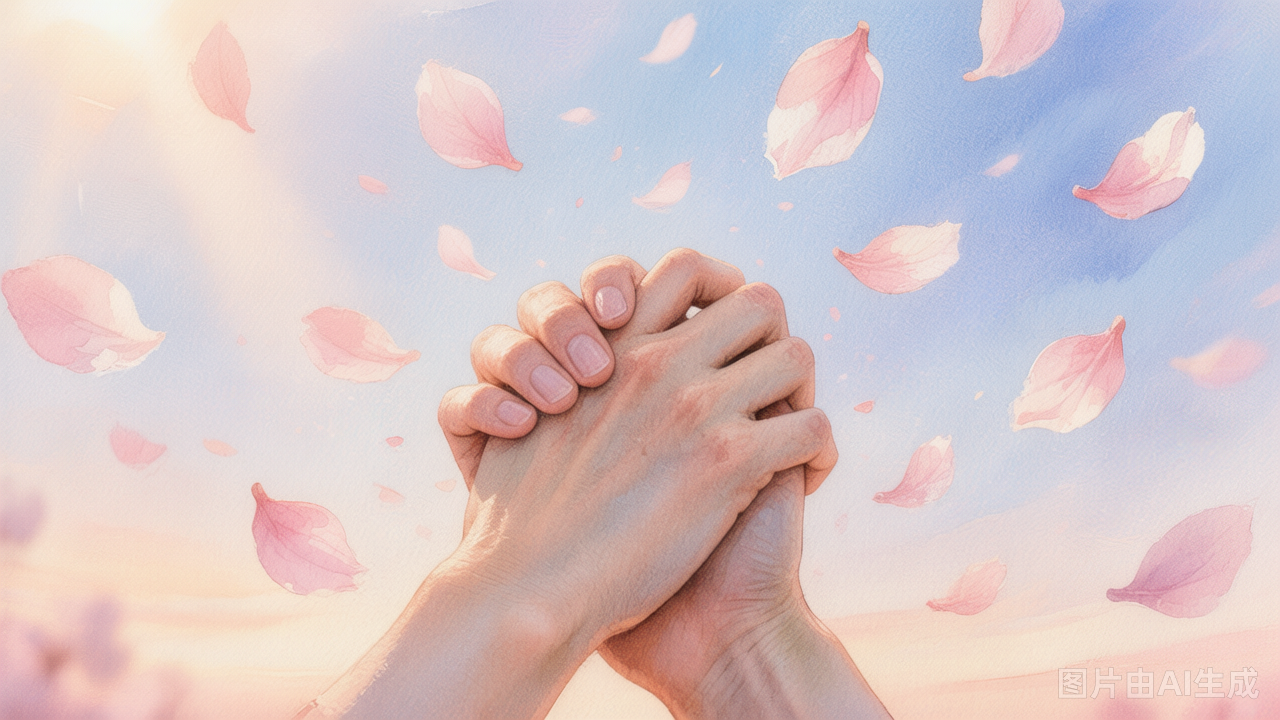
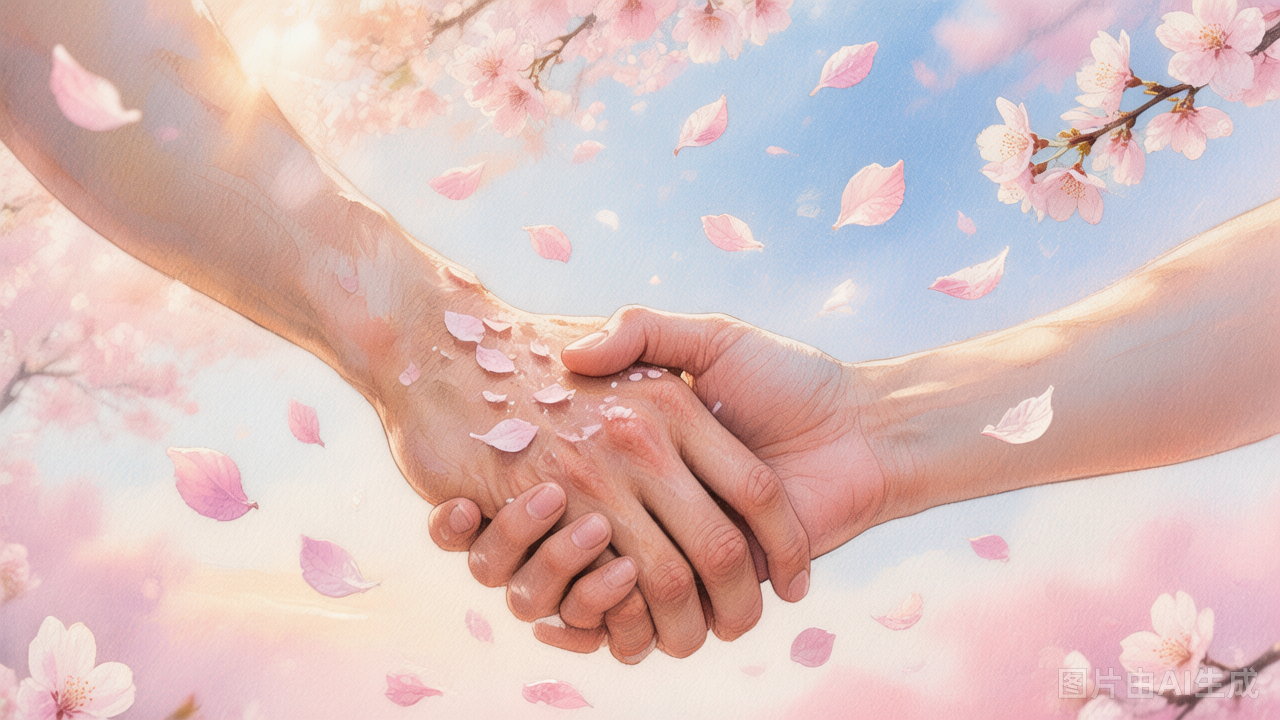
Add files via upload

diff --git a/index.html b/index.html
@@ -3,7 +3,7 @@
 <head>
 <meta charset="UTF-8">
 <meta name="viewport" content="width=device-width, initial-scale=1.0">
-<title>5.20 - I Love You</title>
+<title>5.20 - 静静</title>
 <style>
 *{margin:0;padding:0;box-sizing:border-box}
 html{scroll-behavior:smooth}
@@ -19,7 +19,7 @@ html{scroll-behavior:smooth}
 @keyframes blink{50%{border-color:transparent}}
 @keyframes glow{0%,100%{text-shadow:0 0 10px rgba(233,30,99,0.3),0 0 20px rgba(233,30,99,0.1)}50%{text-shadow:0 0 20px rgba(233,30,99,0.6),0 0 40px rgba(233,30,99,0.3)}}
 @keyframes ripple{0%{transform:scale(1);opacity:0.4}100%{transform:scale(2.5);opacity:0}}
-@keyframes rotateHeart{0%{transform:rotate(0deg)}100%{transform:rotate(360deg)}}
+@keyframes nameFloat{0%,100%{transform:translateY(0)}50%{transform:translateY(-6px)}}
 
 body{
   font-family:'Georgia','STSong','SimSun','Songti SC',serif;
@@ -69,7 +69,7 @@ body{
   background-image:url('generated_image_520_rose_heart.png');
   background-size:cover;
   background-position:center;
-  opacity:0.15;
+  opacity:0.12;
   filter:blur(2px);
 }
 
@@ -96,7 +96,7 @@ body{
 .hero-heart-wrap{
   position:relative;
   display:inline-block;
-  margin:24px 0;
+  margin:16px 0 8px;
   cursor:pointer;
   animation:fadeInUp 1s ease 0.4s both;
 }
@@ -117,6 +117,18 @@ body{
   border:2px solid #ff4070;
   border-radius:50%;
   animation:ripple 2s ease-out infinite;
+}
+
+/* ===== "静静" Name above Heart ===== */
+.hero-name{
+  font-size:clamp(1.6rem,5vw,2.6rem);
+  color:#c2185b;
+  letter-spacing:16px;
+  margin-bottom:4px;
+  animation:fadeInUp 1s ease 0.3s both, nameFloat 3s ease-in-out infinite 1s;
+  text-indent:16px;
+  font-weight:normal;
+  text-shadow:0 2px 12px rgba(233,30,99,0.2);
 }
 
 .hero-title{
@@ -528,6 +540,8 @@ body{
   <div class="hero-overlay"></div>
   <div class="hero-content">
     <div class="hero-date">5 . 2 0</div>
+    <!-- "静静" 二字，在爱心正上方 -->
+    <div class="hero-name">静静</div>
     <div class="hero-heart-wrap" id="heroHeart" onclick="burstHearts(event)">
       <div class="ripple"></div>
       <div class="ripple" style="animation-delay:0.7s"></div>
@@ -556,7 +570,7 @@ body{
     <div class="letter-card">
       <h2 class="letter-heading">&#9993; A Letter For You</h2>
       <div class="letter-body">
-        <p>Dear You,</p>
+        <p>静静：</p>
         <p>在这个属于爱的日子里，我想把心底最柔软的话说给你听。遇见你，是我这辈子最幸运的事。你的笑容像五月的阳光，温暖而明亮，照亮了我所有的平凡日子。</p>
         <p>喜欢你看我时眼里的光，喜欢你牵手时掌心的温度，喜欢你说的每一句"没关系"。和你在一起的日子，连风都是甜的。</p>
         <p>世界很大，但我只想躲在你身旁。余生很长，我只想和你一起走。520，不仅仅是一个数字，更是我对你说不尽的"我爱你"。</p>
@@ -576,19 +590,19 @@ body{
         <div class="timeline-dot"></div>
         <div class="timeline-date">First Sight</div>
         <div class="timeline-title">When I First Saw You</div>
-        <div class="timeline-desc">茫茫人海中，第一眼就认定了你。心跳加速的感觉，至今记忆犹新。</div>
+        <div class="timeline-desc">直到今日，第一次见你的样子依然深深的刻在我的脑海里，那件粉色卫衣，那个可爱的你。</div>
       </div>
       <div class="timeline-item" data-delay="100">
         <div class="timeline-dot" style="background:#ff80ab;box-shadow:0 0 0 3px #ffb6c1"></div>
         <div class="timeline-date">First Date</div>
         <div class="timeline-title">Our First Date</div>
-        <div class="timeline-desc">紧张到说不出话，却因为你的一句玩笑，突然就放松了。那天晚上的风，好温柔。</div>
+        <div class="timeline-desc">第一次一起吃的火锅，那份决定命运的排骨，依然是我脑海中深深的回忆。</div>
       </div>
       <div class="timeline-item" data-delay="200">
         <div class="timeline-dot"></div>
         <div class="timeline-date">Everyday</div>
         <div class="timeline-title">Everyday With You</div>
-        <div class="timeline-desc">一起吃的每一顿饭，一起走的每一条路，一起看的每一场电影，都是最珍贵的宝藏。</div>
+        <div class="timeline-desc">一起吃的每一顿饭，一起走的每一条路，一起看的每一场风景，都是最珍贵的宝藏。</div>
       </div>
       <div class="timeline-item" data-delay="300">
         <div class="timeline-dot" style="background:#ff80ab;box-shadow:0 0 0 3px #ffb6c1"></div>
@@ -665,13 +679,13 @@ body{
       用余生所有的温柔，<br>
       换你一世笑颜如花。
     </div>
-    <span class="promise-highlight">520, I Love You Forever.</span>
+    <span class="promise-highlight">520, 静静，I Love You Forever.</span>
   </div>
 </section>
 
 <!-- Footer -->
 <footer class="footer">
-  <p>Made with <span class="footer-heart">&#10084;</span> just for you</p>
+  <p>Made with <span class="footer-heart">&#10084;</span> for <span style="color:#ff80ab">静静</span></p>
   <p style="margin-top:8px;opacity:0.5">5.20 - A day to celebrate love</p>
 </footer>
 